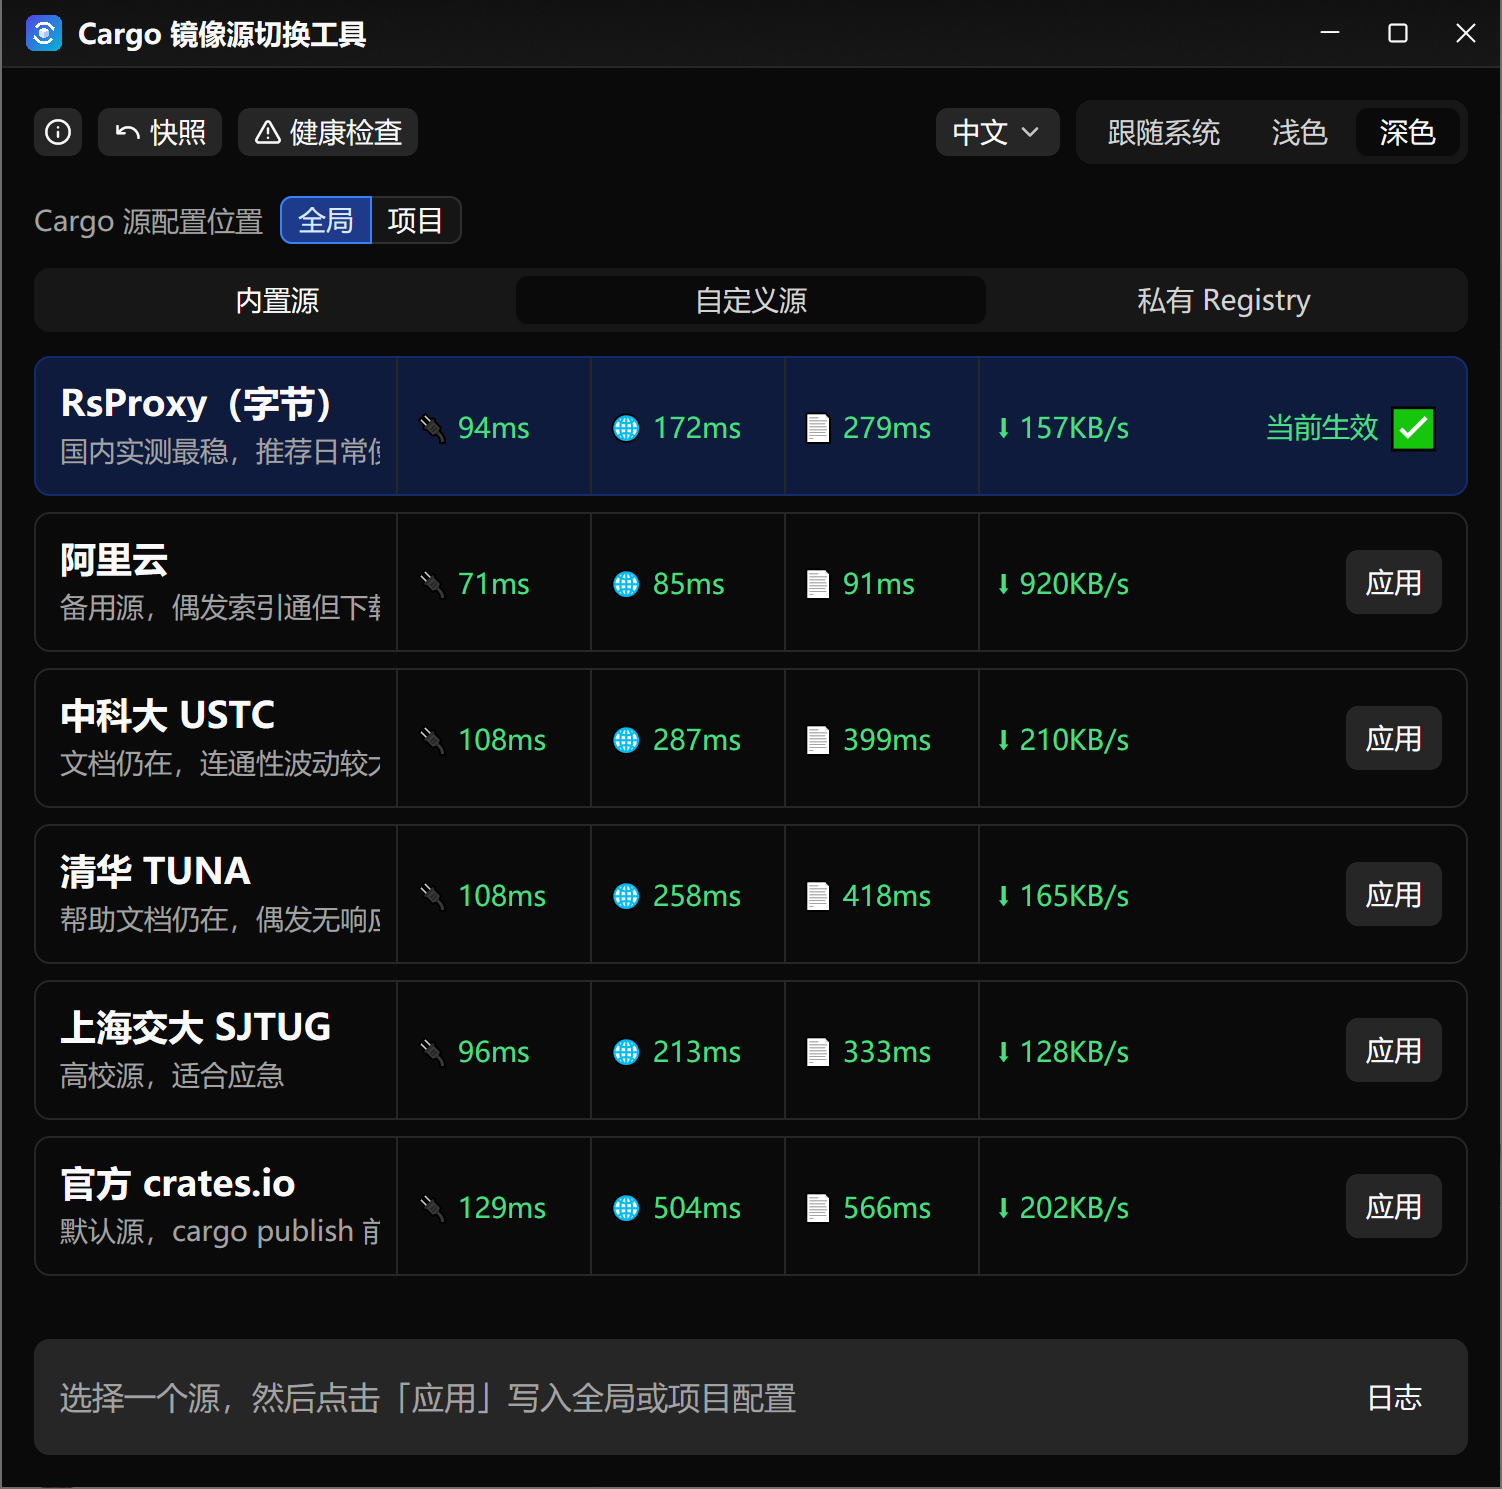
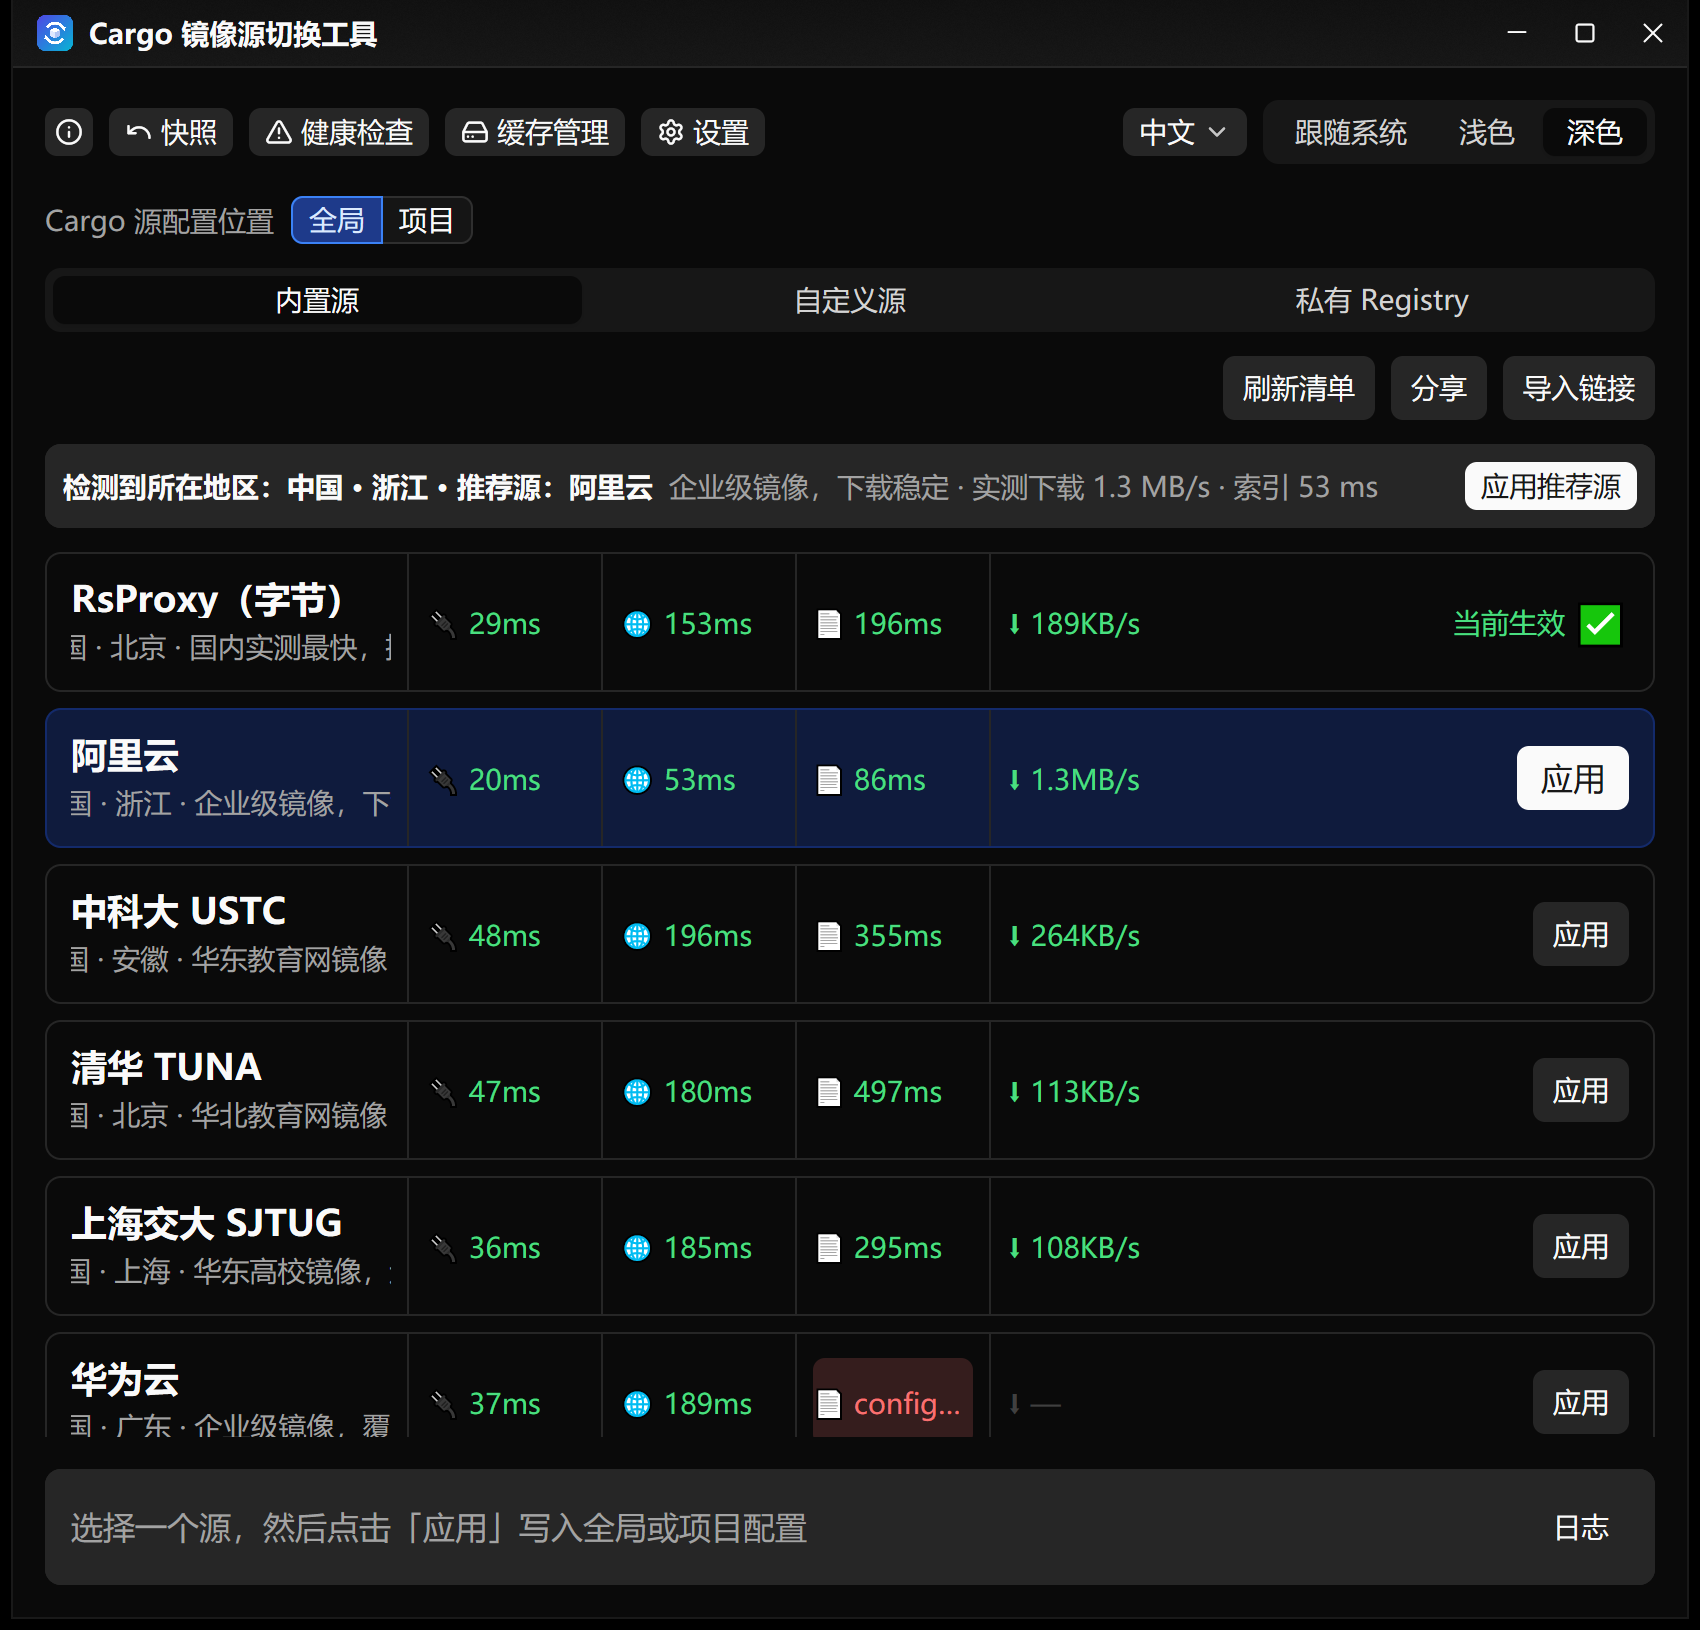
docs: 更新界面截图并补充新功能说明
- 重拍 01-09 截图，新增配置快照、快照对比与 Cargo 缓存管理截图
- README 补充在线源清单、地区推荐、源分享、缓存管理、日志面板与多语言说明
- 更新内置源清单表格、项目结构与技术栈

diff --git a/README.md b/README.md
@@ -2,7 +2,7 @@
 
 # srmgui
 
-一个基于 [GPUI Kit](https://crates.io/crates/gpui-kit) 的桌面小工具，用于查看、测速并切换 Rust Cargo 的镜像源，同时支持企业私有 Registry 的索引与认证 token 管理，配置直接写入 Cargo 配置与凭据文件。
+一个基于 [GPUI Kit](https://crates.io/crates/gpui-kit) 的桌面小工具，用于查看、测速并切换 Rust Cargo 的镜像源，可按所在地区推荐并一键应用，同时支持企业私有 Registry 的索引与认证 token 管理、Cargo 缓存清理，配置直接写入 Cargo 配置与凭据文件。
 
 ## 界面预览
 
@@ -13,14 +13,18 @@
 | ![私有 Registry](.screenshots/05-private-registry.png) | ![添加私有 Registry](.screenshots/06-private-add.png) |
 | 配置健康检查 | 写入前预览 |
 | ![配置健康检查](.screenshots/07-health-check.png) | ![写入前预览](.screenshots/08-write-preview.png) |
-| 日志面板 | 深色模式 |
-| ![日志面板](.screenshots/03-log.png) | ![深色模式](.screenshots/02-dark-mode.png) |
-| 应用设置 | |
-| ![应用设置](.screenshots/09-settings.png) | |
+| 配置快照 | 快照对比 |
+| ![配置快照](.screenshots/10-config-snapshots.png) | ![快照对比](.screenshots/11-snapshot-diff.png) |
+| Cargo 缓存管理 | 日志面板 |
+| ![Cargo 缓存管理](.screenshots/12-cargo-cache.png) | ![日志面板](.screenshots/03-log.png) |
+| 深色模式 | 应用设置 |
+| ![深色模式](.screenshots/02-dark-mode.png) | ![应用设置](.screenshots/09-settings.png) |
 
 ## 功能特性
 
-- **内置常用镜像源**：RsProxy、阿里云、中科大 USTC、清华 TUNA、上海交大 SJTUG、官方 crates.io，一键切换。
+- **内置镜像源**：内置 RsProxy、阿里云、华为云、中科大 USTC、清华 TUNA、上海交大 SJTUG 等 14 个国内镜像与官方 crates.io，一键切换。
+- **在线清单订阅**：启动时从仓库的 `sources.json` 拉取最新内置源清单，新增镜像无需发版；结果缓存在本地，离线仍可用，也可点击「刷新清单」手动更新。
+- **地区识别与推荐**：识别出口 IP 所在的国家与省份，结合实测下载速度与索引延迟给出推荐条；中国大陆优先同省可用源，境外推荐官方源，识别失败时沿用上次结果。
 - **四层自动探测**：逐层检测并展示每个源是否真正可用：
   1. TCP 连接
   2. HTTP 索引探测
@@ -32,6 +36,10 @@
 - **导入 / 导出**：自定义源可导出为 srmgui 自定义的 `.srmgui` 文件，也可从该格式导入并自动合并（跳过内置源与重复标识）。
 - **主题切换**：跟随系统 / 浅色 / 深色。
 - **细节体验**：固定列宽布局，过长文字循环滚动显示，悬停显示完整详情 tips。
+- **源分享**：任一源可生成 `srmgui://source?data=...` 分享链接，复制给他人后可用「导入链接」直接导入。
+- **Cargo 缓存管理**：按来源统计 registry 索引、下载包与解压源码的占用，可删除单个来源缓存并清理无效条目。
+- **日志面板**：按级别多选过滤、关键字搜索，并支持一键导出诊断包（配置、设置、探测结果与运行环境）。
+- **多语言界面**：内置简体中文、English、日本語、한국어、Deutsch、Français、Español、Русский 8 种语言，工具栏切换后立即生效并持久化。
 - **写入前预览**：点击「应用」先展示合并后的配置差异（行级 diff，`+` / `-` 着色），确认后才落盘，取消不产生任何改动。
 - **配置快照与回滚**：每次写入前自动保留配置快照（默认最多最近 10 份），可一键恢复到任意一次；快照标签标注「切换前源」，与内容始终一致。
 - **快照对比**：每条快照支持「与当前对比」，也可选定另一条快照互相对比，直观看出切换前后的配置变化。
@@ -43,23 +51,36 @@
 
 ## 内置源
 
-| 标识名 | 名称 | Registry URL | 说明 |
-| --- | --- | --- | --- |
-| `rsproxy` | RsProxy（字节） | `sparse+https://rsproxy.cn/index/` | 国内实测最稳，推荐日常使用 |
-| `aliyun` | 阿里云 | `sparse+https://mirrors.aliyun.com/crates.io-index/` | 备用源，偶发索引通但下载 404 |
-| `ustc` | 中科大 USTC | `sparse+https://mirrors.ustc.edu.cn/crates.io-index/` | 文档仍在，连通性波动较大 |
-| `tuna` | 清华 TUNA | `sparse+https://mirrors.tuna.tsinghua.edu.cn/crates.io-index/` | 帮助文档仍在，偶发无响应 |
-| `sjtu` | 上海交大 SJTUG | `sparse+https://mirrors.sjtug.sjtu.edu.cn/crates.io-index/` | 高校源，适合应急 |
-| `official` | 官方 crates.io | `sparse+https://index.crates.io/` | 默认源，`cargo publish` 前建议切回 |
+| 标识名 | 名称 | 地区 | Registry URL | 说明 |
+| --- | --- | --- | --- | --- |
+| `rsproxy` | RsProxy（字节） | 北京 | `sparse+https://rsproxy.cn/index/` | 国内实测最快，推荐日常使用 |
+| `aliyun` | 阿里云 | 浙江 | `sparse+https://mirrors.aliyun.com/crates.io-index/` | 企业级镜像，下载稳定 |
+| `ustc` | 中科大 USTC | 安徽 | `sparse+https://mirrors.ustc.edu.cn/crates.io-index/` | 华东教育网镜像，连通性好 |
+| `tuna` | 清华 TUNA | 北京 | `sparse+https://mirrors.tuna.tsinghua.edu.cn/crates.io-index/` | 华北教育网镜像，更新及时 |
+| `sjtu` | 上海交大 SJTUG | 上海 | `sparse+https://mirrors.sjtug.sjtu.edu.cn/crates.io-index/` | 华东高校镜像，适合应急 |
+| `huawei` | 华为云 | 广东 | `sparse+https://mirrors.huaweicloud.com/crates.io-index/` | 企业级镜像，覆盖全国 |
+| `cernet` | CERNET 联合镜像 | — | `sparse+https://mirrors.cernet.edu.cn/crates.io-index/` | 教育网联合镜像，自动调度 |
+| `nju` | 南京大学 | 江苏 | `sparse+https://mirrors.nju.edu.cn/crates.io-index/` | 江苏高校镜像，华东备用 |
+| `bfsu` | 北外 BFSU | 北京 | `sparse+https://mirrors.bfsu.edu.cn/crates.io-index/` | 北京教育网镜像，华北备用 |
+| `sdu` | 山东大学 | 山东 | `sparse+https://mirrors.sdu.edu.cn/crates.io-index/` | 山东高校镜像，华北备用 |
+| `hust` | 华中科技大学 | 湖北 | `sparse+https://mirrors.hust.edu.cn/crates.io-index/` | 华中高校镜像，中部备用 |
+| `zju` | 浙江大学 | 浙江 | `sparse+https://mirrors.zju.edu.cn/crates.io-index/` | 浙江高校镜像，华东备用 |
+| `neusoft` | 东软 | 辽宁 | `sparse+https://mirrors.neusoft.edu.cn/crates.io-index/` | 东北镜像，北方备用 |
+| `nyist` | 南阳理工学院 | 河南 | `sparse+https://mirror.nyist.edu.cn/crates.io-index/` | 河南高校镜像，中原备用 |
+| `official` | 官方 crates.io | 全球 | `sparse+https://index.crates.io/` | 默认源，`cargo publish` 前建议切回 |
+
+内置源清单来自仓库根目录的 [`sources.json`](sources.json)（格式 `srmgui.manifest` v3），应用启动时会拉取最新版本并缓存到 `<应用目录>/srmgui-sources.json`；离线或拉取失败时使用本地缓存，缓存也没有时回退到编译期内置清单。
 
 ## 使用
 
-1. 启动程序，等待自动测速完成（每行依次显示 TCP / HTTP / 解析 / 下载四个步骤的结果）。
+1. 启动程序，等待自动测速完成（每行依次显示 TCP / HTTP / 解析 / 下载四个步骤的结果）；顶部推荐条会显示识别到的地区与推荐源，可点击「应用推荐源」直接切换。
 2. 点击目标源右侧的「应用」，在弹出的「写入前预览」中查看目标路径、变更摘要与 `+` / `-` 着色 diff，确认无误后点击「确认写入」，配置才会写入 `~/.cargo/config.toml`（优先使用 `$CARGO_HOME`）；点击「取消」不会产生任何改动。
 3. 当前生效的源会在行尾显示「当前生效 ✅」。
 4. 如需回退，点击标题栏的「快照」按钮，在列表中选择某次快照点击「恢复」即可。
 5. 如果配置被其他工具改坏，点击标题栏的「健康检查」，扫描并一键修复问题。
-6. 如需调整超时、测速 / 更新周期、快照保留数与日志参数，点击标题栏的「设置」修改，保存后立即生效。
+6. 需要清理磁盘时点击标题栏的「缓存」，查看 registry 索引、下载包与源码的占用，并按来源删除。
+7. 选中任一源后点击「分享」可复制 `srmgui://source?data=...` 链接；收到链接时点击「导入链接」粘贴即可。
+8. 如需调整超时、测速 / 更新周期、快照保留数与日志参数，点击标题栏的「设置」修改，保存后立即生效；右上角语言菜单可切换 8 种界面语言。
 
 ### 写入前预览
 
@@ -68,6 +89,29 @@
 - 顶部显示本次写入的目标文件路径；
 - 中间显示新增 / 删除行数与 diff 内容（`+` 为新增，`-` 为删除）；
 - 只在点击「确认写入」后才写入，取消则完全不改动配置。
+
+### 地区推荐
+
+启动后（以及每轮测速结束）会按出口 IP 识别所在国家与省份，并在源列表顶部给出推荐条：
+
+- 中国大陆：优先同省可用源，其次按实测下载速度与索引延迟排序；
+- 其他地区：优先官方 crates.io 等全球源；
+- 尚无测速结果时使用内置兜底优先级，识别失败则沿用上次结果；
+- 点击「应用推荐源」直接进入写入前预览流程。
+
+### 源清单与分享
+
+- **在线清单**：启动与每次更新检查时拉取仓库根目录的 `sources.json`，成功后替换列表并写入本地缓存；也可点击「刷新清单」手动触发。
+- **分享源**：选中源后点击「分享」，复制 `srmgui://source?data=...` 链接（URL-safe Base64 编码的标识名、名称、URL、说明与地区）。
+- **导入链接**：粘贴他人分享的链接即可导入，已存在的标识会自动跳过并提示数量。
+
+### Cargo 缓存管理
+
+点击标题栏的「缓存」扫描 `$CARGO_HOME`（默认 `~/.cargo`）：
+
+- 按来源汇总 registry 索引、下载包与解压源码的占用，兼容 sparse 与 git 索引；
+- 支持删除单个来源的缓存，以及清理无法对应到任何来源的无效条目；
+- 扫描结果会缓存在应用目录，下次打开直接展示，缓存体积变化后自动重新扫描。
 
 ### 配置快照与回滚
 
@@ -264,28 +308,44 @@ xcode-select --install
 srmgui/
 ├── assets/           # logo 源文件（svg）、界面用 png、exe 图标 ico、资源脚本 rc
 ├── build.rs          # Windows 下将 ico 嵌入可执行文件（Linux/macOS 跳过）
+├── sources.json      # 内置源清单（启动时在线拉取，离线回退到缓存/内置清单）
 ├── src/
 │   ├── main.rs       # 程序入口与窗口初始化
-│   ├── root_view.rs  # 主界面布局、应用/回滚等交互
+│   ├── app.rs        # 应用状态（源、地区、缓存、更新等）与配置持久化
+│   ├── model.rs      # 状态类型、语言与主题枚举
+│   ├── root_view.rs  # 主界面布局、应用/回滚/测速/推荐等交互
 │   ├── source_list.rs # 源列表与测速结果展示
 │   ├── private_list.rs # 私有 Registry 列表与删除
 │   ├── add_form.rs   # 自定义源与私有 Registry 添加表单
 │   ├── config_dialog.rs # 写入前预览、快照列表、diff 查看对话框
+│   ├── cache_dialog.rs # Cargo 缓存管理对话框
 │   ├── settings_dialog.rs # 应用设置对话框：网络、周期、快照与日志参数
+│   ├── log_panel.rs  # 日志面板：级别过滤、关键字搜索与诊断包导出
+│   ├── ui.rs         # 共用 UI 片段（滚动文字、分隔线、底部滑入面板等）
 │   ├── diff.rs       # 行级 LCS diff 算法
-│   ├── registry.rs   # 内置源列表与 config.toml 内容生成
-│   ├── config_io.rs  # 配置读取/写入、快照保存与恢复、自定义源与私有 Registry 管理
-│   ├── health.rs     # 配置健康检查：扫描重复表头、残留替换块、孤立源段与语法错误并修复
+│   ├── registry.rs   # 编译期内置源清单与 config.toml 内容生成
+│   ├── manifest.rs   # 在线源清单订阅与 srmgui:// 分享链接
+│   ├── region.rs     # 出口 IP 地区识别与按地区/测速推荐
+│   ├── config_io.rs  # 配置读写、快照、自定义源、私有 Registry 与设置持久化
+│   ├── health.rs     # 配置健康检查：重复表头、残留替换块、孤立源段与语法错误
+│   ├── cache.rs      # Cargo 缓存扫描、按来源统计与清理
+│   ├── diagnostics.rs # 诊断包导出（不含认证凭据）
+│   ├── logger.rs     # 内存/文件日志与本地时间戳
 │   ├── update.rs     # 检查 GitHub Releases、下载并启动安装包
-│   └── net.rs        # 四层网络探测
+│   ├── net.rs        # 四层网络探测
+│   ├── util.rs       # URL 规范化等小工具
+│   └── cli.rs        # 命令行子命令实现
 └── Cargo.toml
 ```
 
 ## 技术栈
 
 - Rust 2024 + [GPUI](https://gpui.rs) / [gpui-kit](https://crates.io/crates/gpui-kit)（含 gpui-component）
-- `rustls` + `webpki-roots` 发起 HTTPS 探测
-- `toml` 解析与生成配置
+- `rustls` + `rustls-native-certs` / `webpki-roots` 发起 HTTPS 探测
+- `toml` / `toml_edit` 解析与生成配置
+- `rust-i18n` 提供 8 种语言的界面文案
+- `serde` / `serde_json` / `base64` 处理源清单与分享链接
+- `chrono` 生成带时区的本地时间戳
 
 ## 关于
 
